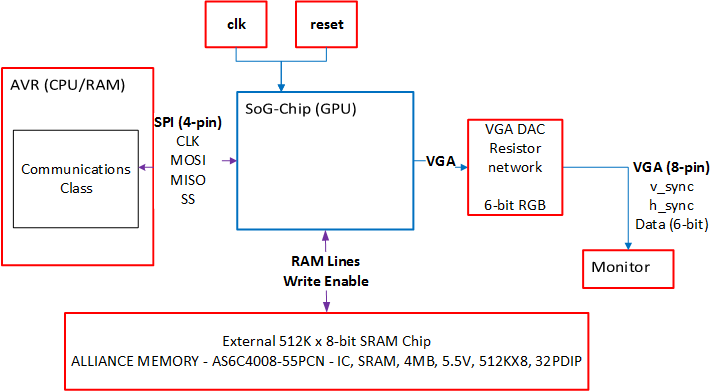
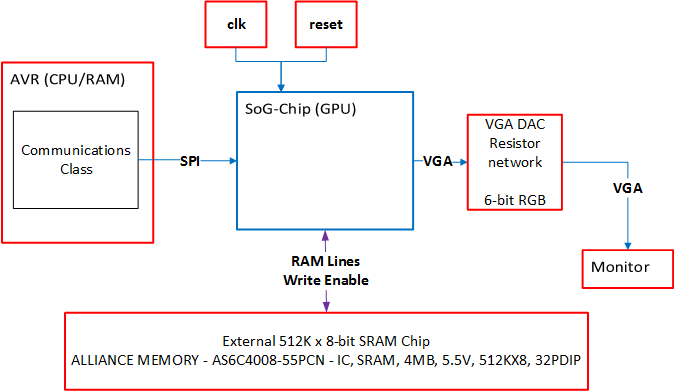
Update Specificaties&Ontwerp Final Version Maybe

diff --git a/docs/eindrapport/ontwerp/ontwerp.tex b/docs/eindrapport/ontwerp/ontwerp.tex
@@ -7,23 +7,53 @@
 \title{EPO3: Eindrapport - Ontwerp}
 
 \begin{document}
-\chapter{Ontwerp}
+\chapter{Systeem Overzicht}
 \label{ch:ontwerp}
 
-Ons GPU is ingedeeld volgens Figure ~\ref{fig:Blokschema GPU}.
+Het uiteindelijke ontwerp is te zien in figuur ~\ref{fig:Blokschema GPU}. In het schema staat hoe de GPU is verdeeld en staat wat voor interacties er onderling plaatsvindt tussen de blokken.
+Elk blok, behalve de State Registers, is een component van de GPU met zijn eigen in VHDL beschreven gedrag en heeft zo zijn eigen functie. Het blok State Registers is eigenlijk gewoon één signaal, maar het is zo weergegeven, omdat het visueel duidelijker weergeeft wat het ASB signaal doet, namelijk het geeft weer op welke screenbuffer er geschreven moet worden en van welke gelezen moet worden en dat is makkelijker te zien als blokje dan als een lijn. 
+\\ De GPU is verdeeld in 6 blokken: de SPI Decoder, de Instructie Decoder, de Draw Logic, de RAM Controller, de VGA Controller en de State Registers. Daarbij is het Draw Logic blok nog verdeeld in modules om de verschillende functies voor vormen te representeren. Er zijn vier modules: Draw Pixel, Draw Rectangle, Draw Line en Draw Sprite.
+\\Wat er precies gebeurt in de blokjes zal uitgelegd worden bij de hoofdstukken met de naam van het desbetreffende blok, maar in dit hoofdstuk zal de nadruk liggen op de interacties tussen de blokken.
 
-\begin{figure}[H]
-\centering
-	\includegraphics[scale=0.9, angle=90]{resource/systeemdrawing-detail.png}
-	\caption{Blokschema GPU}
-	\label{fig:Blokschema GPU}
-\end{figure}
+\section{Externe AVR --> SPI Decoder}
+De SPI decoder krijgt door middel van de SPI verbinding met de SPI module op de AVR de benodigde data om iets te tekenen binnen. Deze SPI verbinding bestaat uit een CLK, een MISO en een SS, er is hier geen MOSI gebruikt omdat er geen data terug gestuurd hoeft te worden. Deze CLK is de klok waarop het verzenden van data tussen de SPI modules is gesynchroniseerd. De MISO is voor het serieel verzenden van data van de CPU naar de GPU. De SS is voor het kiezen van de juiste slave waar de data heen gestuurd moet worden, maar er is hier maar één slave dus is SS altijd hoog.
 
-In de komende hoofdstukken komen alle subonderdelen van de GPU aan bod en wordt de functie en werking ervan uiteengezet.
+\section{SPI decoder <--> Instructie Decoder}
+De SPI verstuurd de ontvangen data naar de Instructie Decoder in 8-bit pakketjes met een signaal dat aangeeft dat er nieuwe data beschikbaar is. De SPI krijgt dan een reset signaal van de Instructie Decoder als het pakketje volledig binnen is gekomen.
+
+\section{Instructie Decoder --> Externe AVR}
+De Instructie Decoder stuurt direct een interrupt signaal naar de AVR om aan te geven wanneer een pakketje is vertaald naar instructies.
+
+\section{Instructie Decoder <--> Draw Logic}
+De Instructie Decoder stuurt dan de data vertaald in instructies naar de Draw Logic in de vorm van X, W, Y, H, Color, ID en Enable. Draw Logic geeft constant zijn status weer aan de Instructie Decoder middels een draw\_ready signaal dat aangeeft of Draw Logic zijn volgende instructie kan verwerken of nog steeds bezig is met een instructie.
+
+\section {Instructie Decoder <--> RAM Controller}
+Voor het inladen van sprites in het RAM stuurt de Instructie Decoder direct data naar de RAM Controller en daarbij stuurt de Instructie Decoder een decoder\_claim signaal om te voorkomen dat andere blokken tegelijkertijd dingen in het RAM gaat lezen of schrijven. RAM Controller stuurt constant het signaal decoder\_can\_acces naar de Instructie Decoder dat verteld of RAM Controller de volgende sprite kan inschrijven of nog steeds bezig is met een sprite.
+
+\section {Instructie Decoder --> Draw Logic \& VGA Controller}
+De Instructie Decoder stuurt het ASB signaal naar de Draw Logic en de VGA Controller om ervoor te zorgen dat de juiste instructie in het juiste screenbuffer wordt gelezen of geschreven.
+
+\section {Draw Logic <--> Modules}
+Draw Logic verstuurt de verkregen instructies van de Instructie Decoder naar de juiste module. De desbetreffende module stuurt dan de naar pixels verwerkte instructie terug naar de Draw Logic met een signaal dat het klaar is met het verwerken van de instructie en dus klaar is voor de volgende instructie.
+
+\section {Draw Logic <--> RAM Controller}
+Draw Logic stuurt de naar pixel verwerkte instructies van de modules in de vorm van Data (6-bit) en Addr (16-bit) naar de RAM Controller met het draw\_write signaal en draw\_read. Het draw\_signaal zorgt ervoor als het hoog is dat de data waarmee het verzonden is in het RAM geschreven wordt. En het draw\_read signaal is voor het uitlezen van de desbetreffende sprites die in het RAM geschreven staan.
+RAM Controller stuurt ook constant een draw\_can\_access signaal naar de Draw Logic, zodat het weet of de RAM Controller bezig is met instructies van andere blokken of vrij is.
+
+\section{RAM Controller <--> Externe SRAM}
+De RAM Controller stuurt de data met een write\_enable signaal, dat ervoor zorgt dat de data in het RAM geschreven wordt. Ook kan de RAM Controller de opgelsagen data uit de externe SRAM uitlezen.
+
+\section{VGA Controller <--> RAM Controller}
+De VGA Controller stuurt de signalen vga\_read en vga\_claim naar de RAM Controller. Het vga\_read signaal om aan te geven dat de VGA Controller de data van één frame wil uitlezen. Het vga\_claim signaal is, zodat er niet gelezen of geschreven wordt door andere blokken, terwijl de VGA Controller zelf aan het lezen is.
+De RAM Controller stuurt de Data en Addr voor de frames naar de VGA Controller. Ook stuurt de RAM Controller constant een vga\_can\_access signaal naar de VGA Controller, zodat het weet wanneer de RAM Controller vrij is.
+
+\section{VGA Controller --> Externe DAC}
+De VGA Controller stuurt de Data en Addr signalen omgezet naar een VGA signaal naar de externe DAC, zodat er uiteindelijk op de monitor een schermafbeelding zal verschijnen op basis van de data ingestuurd van de CPU. 
+
 
 %%%%%%%------------ONDERSTAANDE MOET NAAR BIJLAGE
 \section{Parameters} 
-In Tabel \ref{tab:spec-params} staat een overzicht van de gebruikte parameters en generics.
+In Tabel \ref{tab:spec-params} staat een overzicht van de gebruikte parameters en generics uit onze GPU.
 
 \begin{table}[H]
 \centering
@@ -66,6 +96,14 @@ In Tabel \ref{tab:spec-params} staat een overzicht van de gebruikte parameters e
   	\hline
 \end{tabular}
 \end{table}
+
+\begin{figure}[H]
+\centering
+	\includegraphics[scale=0.9, angle=90]{resource/systeemdrawing-detail.png}
+	\caption{Ontwerp GPU}
+	\label{fig:Blokschema GPU}
+\end{figure}
+
 
 % \section{SPI Controller}
 % Voor de communicatie tussen de AVR en onze GPU hebben we een SPI decoder nodig.

diff --git a/docs/eindrapport/specificaties/specificaties.tex b/docs/eindrapport/specificaties/specificaties.tex
@@ -12,15 +12,16 @@
 
 \section {Functie van de GPU}
 Een GPU is elektrische schakeling ontworpen om aan de hand van input data het geheugen te vormen en te wijzigen, zodat het maken van afbeeldingen voor een screen buffer snel genoeg gaat voor een vloeiende beeld op het beelscherm. De GPU die voor  dit project ontworpen en gefabriceerd wordt, zal dezelfde functie hebben als een algemene GPU, maar voor dit project zijn er bepaalde beperkingen voor de IC, die worden beschreven in de " Randvoorwaarden van de IC".
-\\De GPU zal opgebouwd moeten worden volgens het blokschema in figuur~\ref{overzichtGPU}.
+\\De GPU zal opgebouwd moeten worden volgens het blokschema in figuur~\ref{overzichtGPU} aan het einde van dit hoofdstuk.
 Zoals er in het blokschema gezien kan worden, zijn er een aantal externe interacties nodig om met de GPU een afbeelding op een monitor te laten schrijven. Ten eerste is er een CPU nodig om de benodigde data voor een schermafbeelding van één frame te sturen naar de GPU. Daarna zal de GPU deze data moeten omzetten naar zijn pixel equivalent en deze op het externe SRAM moeten schrijven, zodat de frame niet wordt vergeten bij het invoeren van de volgende frame. Ook moet de GPU het huidige frame uit het SRAM kunnen uitlezen, om deze vervolgens te modificeren tot een signaal dat door een VGA monitor verwerkt kan worden tot een schermafbeelding.
 
 \begin{figure}[H]
 \centering
-        \includegraphics[scale=0.75, angle=90]{Resource/system_overview.png}
+        \includegraphics[scale=0.9]{Resource/system_overview.png}
         \caption{overzicht GPU}
         \label{fig:overzichtGPU}
 \end{figure} 
+
 
 \section {Functionele Eisen}
 Om een GPU van acceptabel niveau te ontwerpen, zijn er deze funtionele eisen gesteld.
@@ -60,7 +61,6 @@ die de elektronica mag dissiperen voor de aansturing van de LEDs, etc.
 \item Nmos L×W = 1.6 × 23.2µm
 \item Pmos L×W = 1.6 × 29.6µm
 \end {itemize}
-
 
 
 \end{document}
